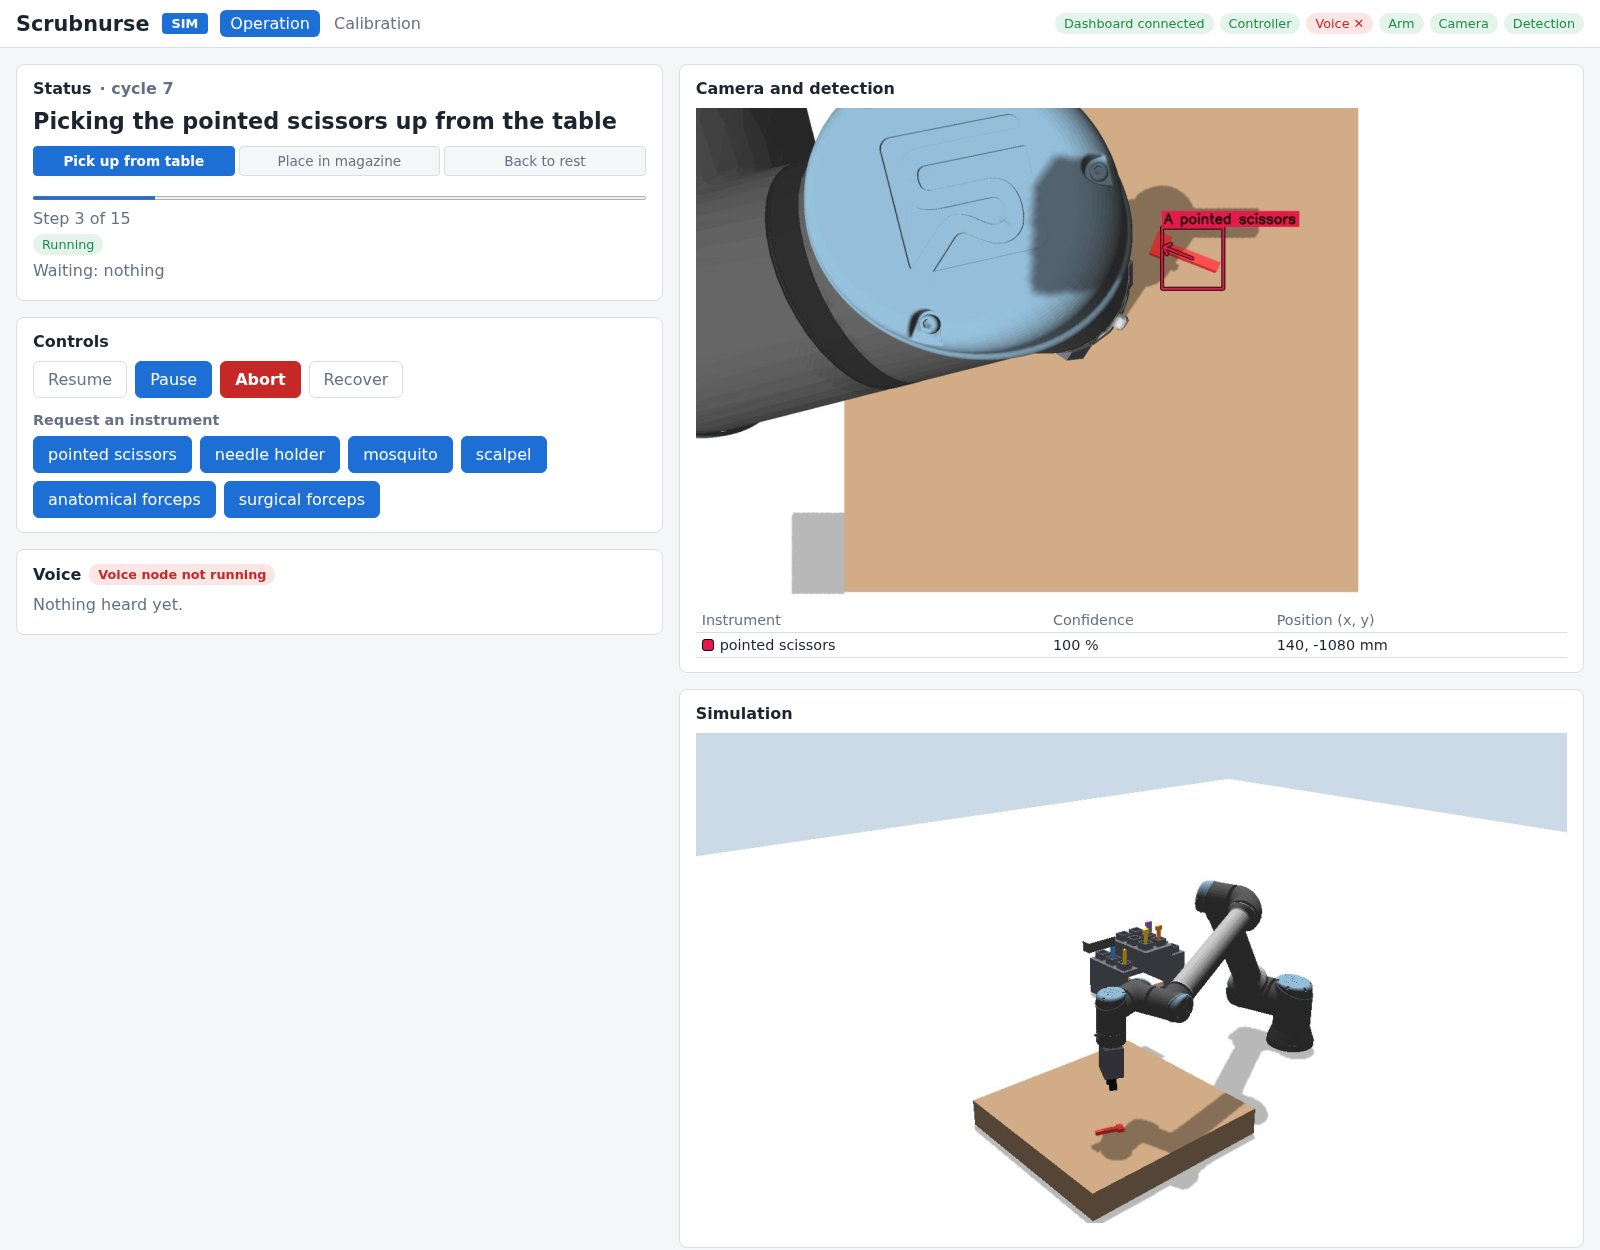
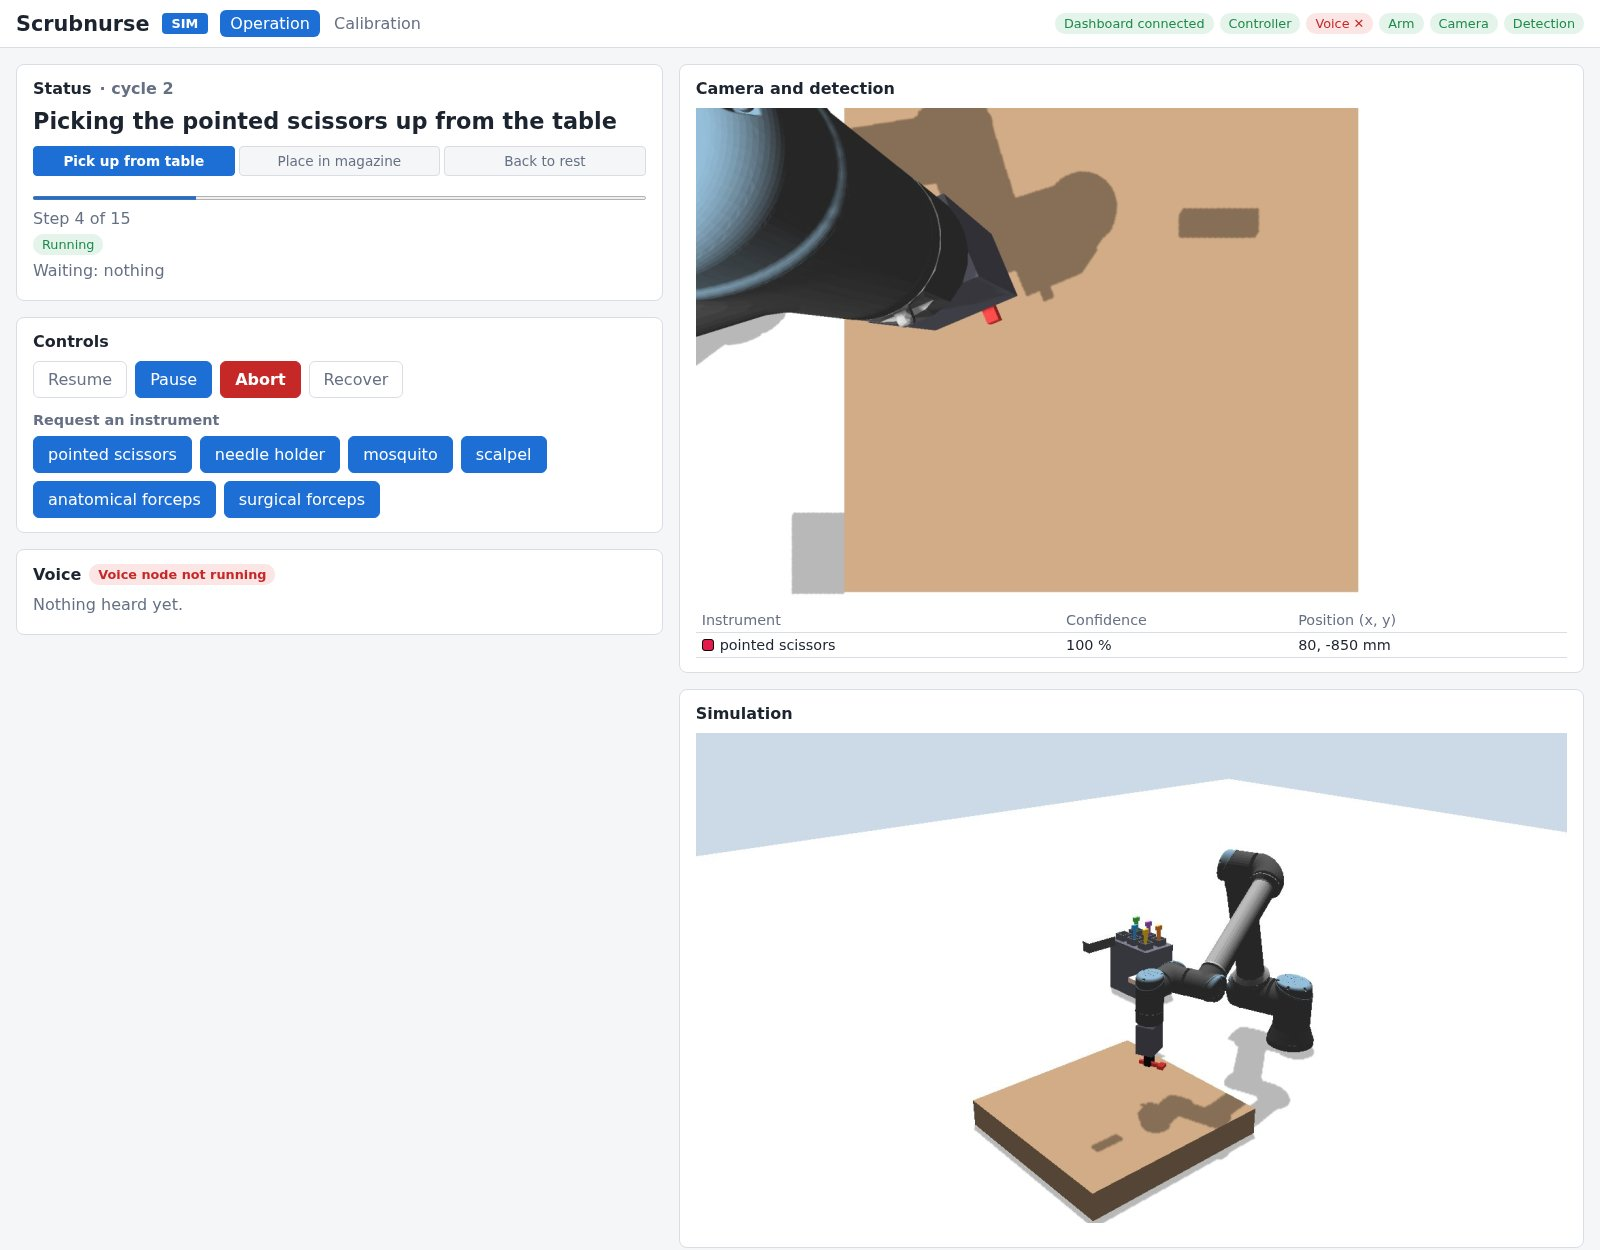
Six tools and one magazine in the simulation
Returned tools go back into their magazine slot, as on the real cell; the side racks and the extra table tool are gone.

diff --git a/src/scrubnurse_sim/scrubnurse_sim/sim_gripper_node.py b/src/scrubnurse_sim/scrubnurse_sim/sim_gripper_node.py
@@ -6,6 +6,11 @@ are moved through finger_controller. When the gripper closes narrower than a
 tool and a tool lies between the fingertips, that tool is attached to the
 gripper with its Gazebo DetachableJoint (the fingers stop on it and the result
 reports `stalled`); opening wider than a tool detaches it again.
+
+Every tool starts in the magazine and is first grasped there, so its pose at the
+first grasp is its slot. Released within `slot_radius` of that slot (the return
+poses R*), the tool is set back into it: the real instrument is long enough to
+reach the slot from the side, the stand-in is not.
 """
 
 import threading
@@ -19,13 +24,13 @@ from rclpy.callback_groups import ReentrantCallbackGroup
 from rclpy.executors import ExternalShutdownException, MultiThreadedExecutor
 from rclpy.node import Node
 from rclpy.time import Time
-from scrubnurse_sim.cell import tool_class
+from scrubnurse_sim.cell import set_pose, tool_class
 from sensor_msgs.msg import JointState
 from std_msgs.msg import Empty, Float64MultiArray, String
 from tf2_msgs.msg import TFMessage
 from tf2_ros import Buffer, TransformListener
 
-TOOLS = ['tool_A', 'tool_B', 'tool_C', 'tool_D', 'tool_E', 'tool_F', 'tool_C_table']
+TOOLS = ['tool_A', 'tool_B', 'tool_C', 'tool_D', 'tool_E', 'tool_F']
 
 
 def rotation_matrix(qx, qy, qz, qw):
@@ -54,6 +59,9 @@ class SimGripper(Node):
         self._stroke = self.declare_parameter('stroke', 0.025).value
         self._tool_width = self.declare_parameter('tool_width', 0.012).value
         self._tools = list(self.declare_parameter('tools', TOOLS).value)
+        self._world = self.declare_parameter('world', 'scrubnurse_cell').value
+        self._slot_radius = self.declare_parameter('slot_radius', 0.2).value
+        self._slots = {}
         group = ReentrantCallbackGroup()
         self._buffer = Buffer()
         self._listener = TransformListener(self._buffer, self)
@@ -95,8 +103,9 @@ class SimGripper(Node):
         with self._lock:
             for t in msg.transforms:
                 if tool_class(t.child_frame_id):
-                    p = t.transform.translation
-                    self._tool_poses[t.child_frame_id] = np.array([p.x, p.y, p.z])
+                    p, q = t.transform.translation, t.transform.rotation
+                    self._tool_poses[t.child_frame_id] = (np.array([p.x, p.y, p.z]),
+                                                          (q.x, q.y, q.z, q.w))
 
     def _on_joints(self, msg):
         if 'finger_left_joint' in msg.name:
@@ -113,7 +122,7 @@ class SimGripper(Node):
         t = np.array([tf.translation.x, tf.translation.y, tf.translation.z])
         with self._lock:
             poses = dict(self._tool_poses)
-        for name, position in poses.items():
+        for name, (position, _) in poses.items():
             if name in self._attach_pubs and in_grasp_region(r.T @ (position - t)):
                 return name
         return None
@@ -126,6 +135,8 @@ class SimGripper(Node):
             if self._attached is None:
                 self._attached = self._tool_between_fingers()
                 if self._attached is not None:
+                    with self._lock:
+                        self._slots.setdefault(self._attached, self._tool_poses[self._attached])
                     self._attach_pubs[self._attached].publish(Empty())
                     self.get_logger().info(f'grasped {self._attached}')
             if self._attached is not None:
@@ -135,6 +146,7 @@ class SimGripper(Node):
             self._detach_pubs[self._attached].publish(Empty())
             self.get_logger().info(f'released {self._attached}')
             self._released_pub.publish(String(data=self._attached))
+            self._put_back(self._attached)
             self._attached = None
 
         self._command_pub.publish(Float64MultiArray(data=[target, target]))
@@ -148,6 +160,16 @@ class SimGripper(Node):
         result.stalled = stalled
         result.reached_goal = not stalled
         return result
+
+    def _put_back(self, name):
+        with self._lock:
+            slot, now = self._slots.get(name), self._tool_poses.get(name)
+        if slot is None or now is None or np.linalg.norm(now[0] - slot[0]) > self._slot_radius:
+            return
+        if set_pose(self._world, name, slot[0], slot[1]):
+            self.get_logger().info(f'put {name} back into its magazine slot')
+        else:
+            self.get_logger().error(f'could not put {name} back (Gazebo set_pose failed)')
 
 
 def main(args=None):

diff --git a/src/scrubnurse_sim/scrubnurse_sim/sim_surgeon_node.py b/src/scrubnurse_sim/scrubnurse_sim/sim_surgeon_node.py
@@ -5,38 +5,22 @@ Takes an instrument as soon as the gripper releases it at the handover pose.
 The hand is only a visual marker, as the real surgeon's hand is gone by the
 time the robot retreats. After `use_time` seconds the surgeon lays the
 instrument down in the table's return area, where the camera sees it and the
-controller puts it back into the return rack. Tools are moved with Gazebo's
+controller puts it back into the magazine. Tools are moved with Gazebo's
 set_pose service.
 """
 
 import itertools
 import math
-import subprocess
 
 import rclpy
 from rclpy.executors import ExternalShutdownException
 from rclpy.node import Node
-from scrubnurse_sim.cell import base_to_world, tool_class, world_to_base, yaw_of
+from scrubnurse_sim.cell import base_to_world, set_pose, tool_class, world_to_base, yaw_of
 from std_msgs.msg import String
 from tf2_msgs.msg import TFMessage
 
 # Where used instruments are put down: inside the return area, flat on the table (base frame).
 TABLE_SPOTS = [(0.08, -0.85, 0.4), (-0.06, -1.05, -0.6), (0.14, -1.08, 1.2), (-0.10, -0.85, 0.0)]
-
-
-def set_pose(world, name, x, y, z, yaw):
-    """Move a Gazebo model (world frame); return True on success."""
-    qz, qw = math.sin(yaw / 2), math.cos(yaw / 2)
-    request = (f'name: "{name}", position: {{x: {x:.4f}, y: {y:.4f}, z: {z:.4f}}}, '
-               f'orientation: {{x: 0, y: 0, z: {qz:.6f}, w: {qw:.6f}}}')
-    try:
-        result = subprocess.run(
-            ['ign', 'service', '-s', f'/world/{world}/set_pose', '--reqtype', 'ignition.msgs.Pose',
-             '--reptype', 'ignition.msgs.Boolean', '--timeout', '2000', '--req', request],
-            capture_output=True, text=True, timeout=5)
-    except (OSError, subprocess.TimeoutExpired):
-        return False
-    return 'data: true' in result.stdout
 
 
 class SimSurgeon(Node):
@@ -83,7 +67,9 @@ class SimSurgeon(Node):
             self.get_logger().info(f'put {name} down at ({x:+.2f}, {y:+.2f}) for return')
 
     def _move(self, name, x, y, z, yaw):
-        if set_pose(self._world, name, *base_to_world(x, y, z, yaw)):
+        x, y, z, yaw = base_to_world(x, y, z, yaw)
+        q = (0.0, 0.0, math.sin(yaw / 2), math.cos(yaw / 2))
+        if set_pose(self._world, name, (x, y, z), q):
             return True
         self.get_logger().error(f'could not move {name} (Gazebo set_pose failed)')
         return False

diff --git a/src/scrubnurse_sim/scripts/generate_world.py b/src/scrubnurse_sim/scripts/generate_world.py
@@ -10,10 +10,11 @@ the holders are placed so that a tool held there rests in them:
                     below the handle
   handover (P)      gripper horizontal along +x: a cradle (the surgeon's hand)
                     under the horizontal tool
-  return rack (R*)  gripper horizontal along +-y: a tool picked flat from the
-                    table hangs upright and drops into a slot
   work table        tools lie flat; return-area grasp heights 0.246..0.249
 The surgeon's hand at P is visual only: sim_surgeon takes the tool on release.
+The return poses (R*) put a tool back into its magazine slot from the side; the
+held stand-in hangs short of the slot, so sim_gripper sets it into the slot on
+release.
 
 Run after re-teaching poses:
     cd src/scrubnurse_sim
@@ -116,27 +117,11 @@ def generate(poses):
         tools += tool(f'tool_{t}', t, (gx, gy, origin_z), (0.0, -math.pi / 2, 0.0))
     links += block('magazine', (-0.92, -0.67), (-0.20, -0.035), min(floors), GREY)
 
-    # Return rack: tools hang upright, handle down, below the horizontal gripper.
-    for group, ids in (('return_abc', 'ABC'), ('return_def', 'DEF')):
-        rack_floors, xs, ys = [], [], []
-        for t in ids:
-            gx, gy, gz = grasp_point(poses[f'R{t}'])
-            floor = gz - (HANDLE_X + HANDLE[0] / 2) - 0.002
-            rack_floors.append(floor)
-            xs.append(gx)
-            ys.append(gy)
-            links += cup(f'return_{t}', gx, gy, floor)
-        links += block(group, (min(xs) - 0.04, max(xs) + 0.04), (min(ys) - 0.04, max(ys) + 0.04),
-                       min(rack_floors), GREY)
-
     # Handover: the surgeon's hand under the horizontal tool (gripper points along +x at P).
     # Visual only - sim_surgeon takes the tool on release, so the retreat is not blocked.
     px, py, pz = grasp_point(poses['P'])
     links += box('surgeon_hand', (px + 0.03, py, pz - SHAFT[2] / 2 - 0.01), (0.12, 0.08, 0.02),
                  '0.95 0.8 0.7 1', collide=False)
-
-    # A tool already lying in the return area, heading along base +x (handle towards +x).
-    tools += tool('tool_C_table', 'C', (0.02, -0.95, TABLE_TOP + SHAFT[2] / 2), (0.0, 0.0, 0.0))
     return links, tools
 
 

diff --git a/src/scrubnurse_sim/scrubnurse_sim/cell.py b/src/scrubnurse_sim/scrubnurse_sim/cell.py
@@ -8,6 +8,7 @@ frame, rotated 180 degrees about z.
 
 from dataclasses import dataclass
 import math
+import subprocess
 
 import numpy as np
 
@@ -17,10 +18,25 @@ TOOL_ON_TABLE_Z = 0.101
 
 
 def tool_class(model_name):
-    """Return the tool id of a Gazebo tool model ('tool_C_table' -> 'C'), else None."""
+    """Return the tool id of a Gazebo tool model ('tool_C' -> 'C'), else None."""
     if not model_name.startswith(TOOL_PREFIX):
         return None
     return model_name[len(TOOL_PREFIX):].split('_')[0] or None
+
+
+def set_pose(world, name, position, orientation):
+    """Move a Gazebo model to a world-frame position and quaternion; return True on success."""
+    (x, y, z), (qx, qy, qz, qw) = position, orientation
+    request = (f'name: "{name}", position: {{x: {x:.4f}, y: {y:.4f}, z: {z:.4f}}}, '
+               f'orientation: {{x: {qx:.6f}, y: {qy:.6f}, z: {qz:.6f}, w: {qw:.6f}}}')
+    try:
+        result = subprocess.run(
+            ['ign', 'service', '-s', f'/world/{world}/set_pose', '--reqtype', 'ignition.msgs.Pose',
+             '--reptype', 'ignition.msgs.Boolean', '--timeout', '2000', '--req', request],
+            capture_output=True, text=True, timeout=5)
+    except (OSError, subprocess.TimeoutExpired):
+        return False
+    return 'data: true' in result.stdout
 
 
 def world_to_base(x, y, z, yaw):

diff --git a/src/scrubnurse_bringup/launch/sim.launch.py b/src/scrubnurse_bringup/launch/sim.launch.py
@@ -25,7 +25,7 @@ from launch.substitutions import LaunchConfiguration, PathJoinSubstitution
 from launch_ros.actions import Node
 from launch_ros.substitutions import FindPackageShare
 
-TOOLS = ['tool_A', 'tool_B', 'tool_C', 'tool_D', 'tool_E', 'tool_F', 'tool_C_table']
+TOOLS = ['tool_A', 'tool_B', 'tool_C', 'tool_D', 'tool_E', 'tool_F']
 WORLD = 'scrubnurse_cell'
 
 

diff --git a/README.md b/README.md
@@ -87,7 +87,7 @@ docker compose up --build
 ```
 
 1. When the log quiets down (about a minute), open http://localhost:8080.
-2. Press **Resume**. The arm first returns tool C, which starts on the table.
+2. Press **Resume**. All six instruments start in the magazine.
 3. Click an instrument under *Request an instrument*. The arm picks it from the magazine and hands
    it over; the simulated surgeon lays it back on the table 15 s later, and the arm returns it.
 
